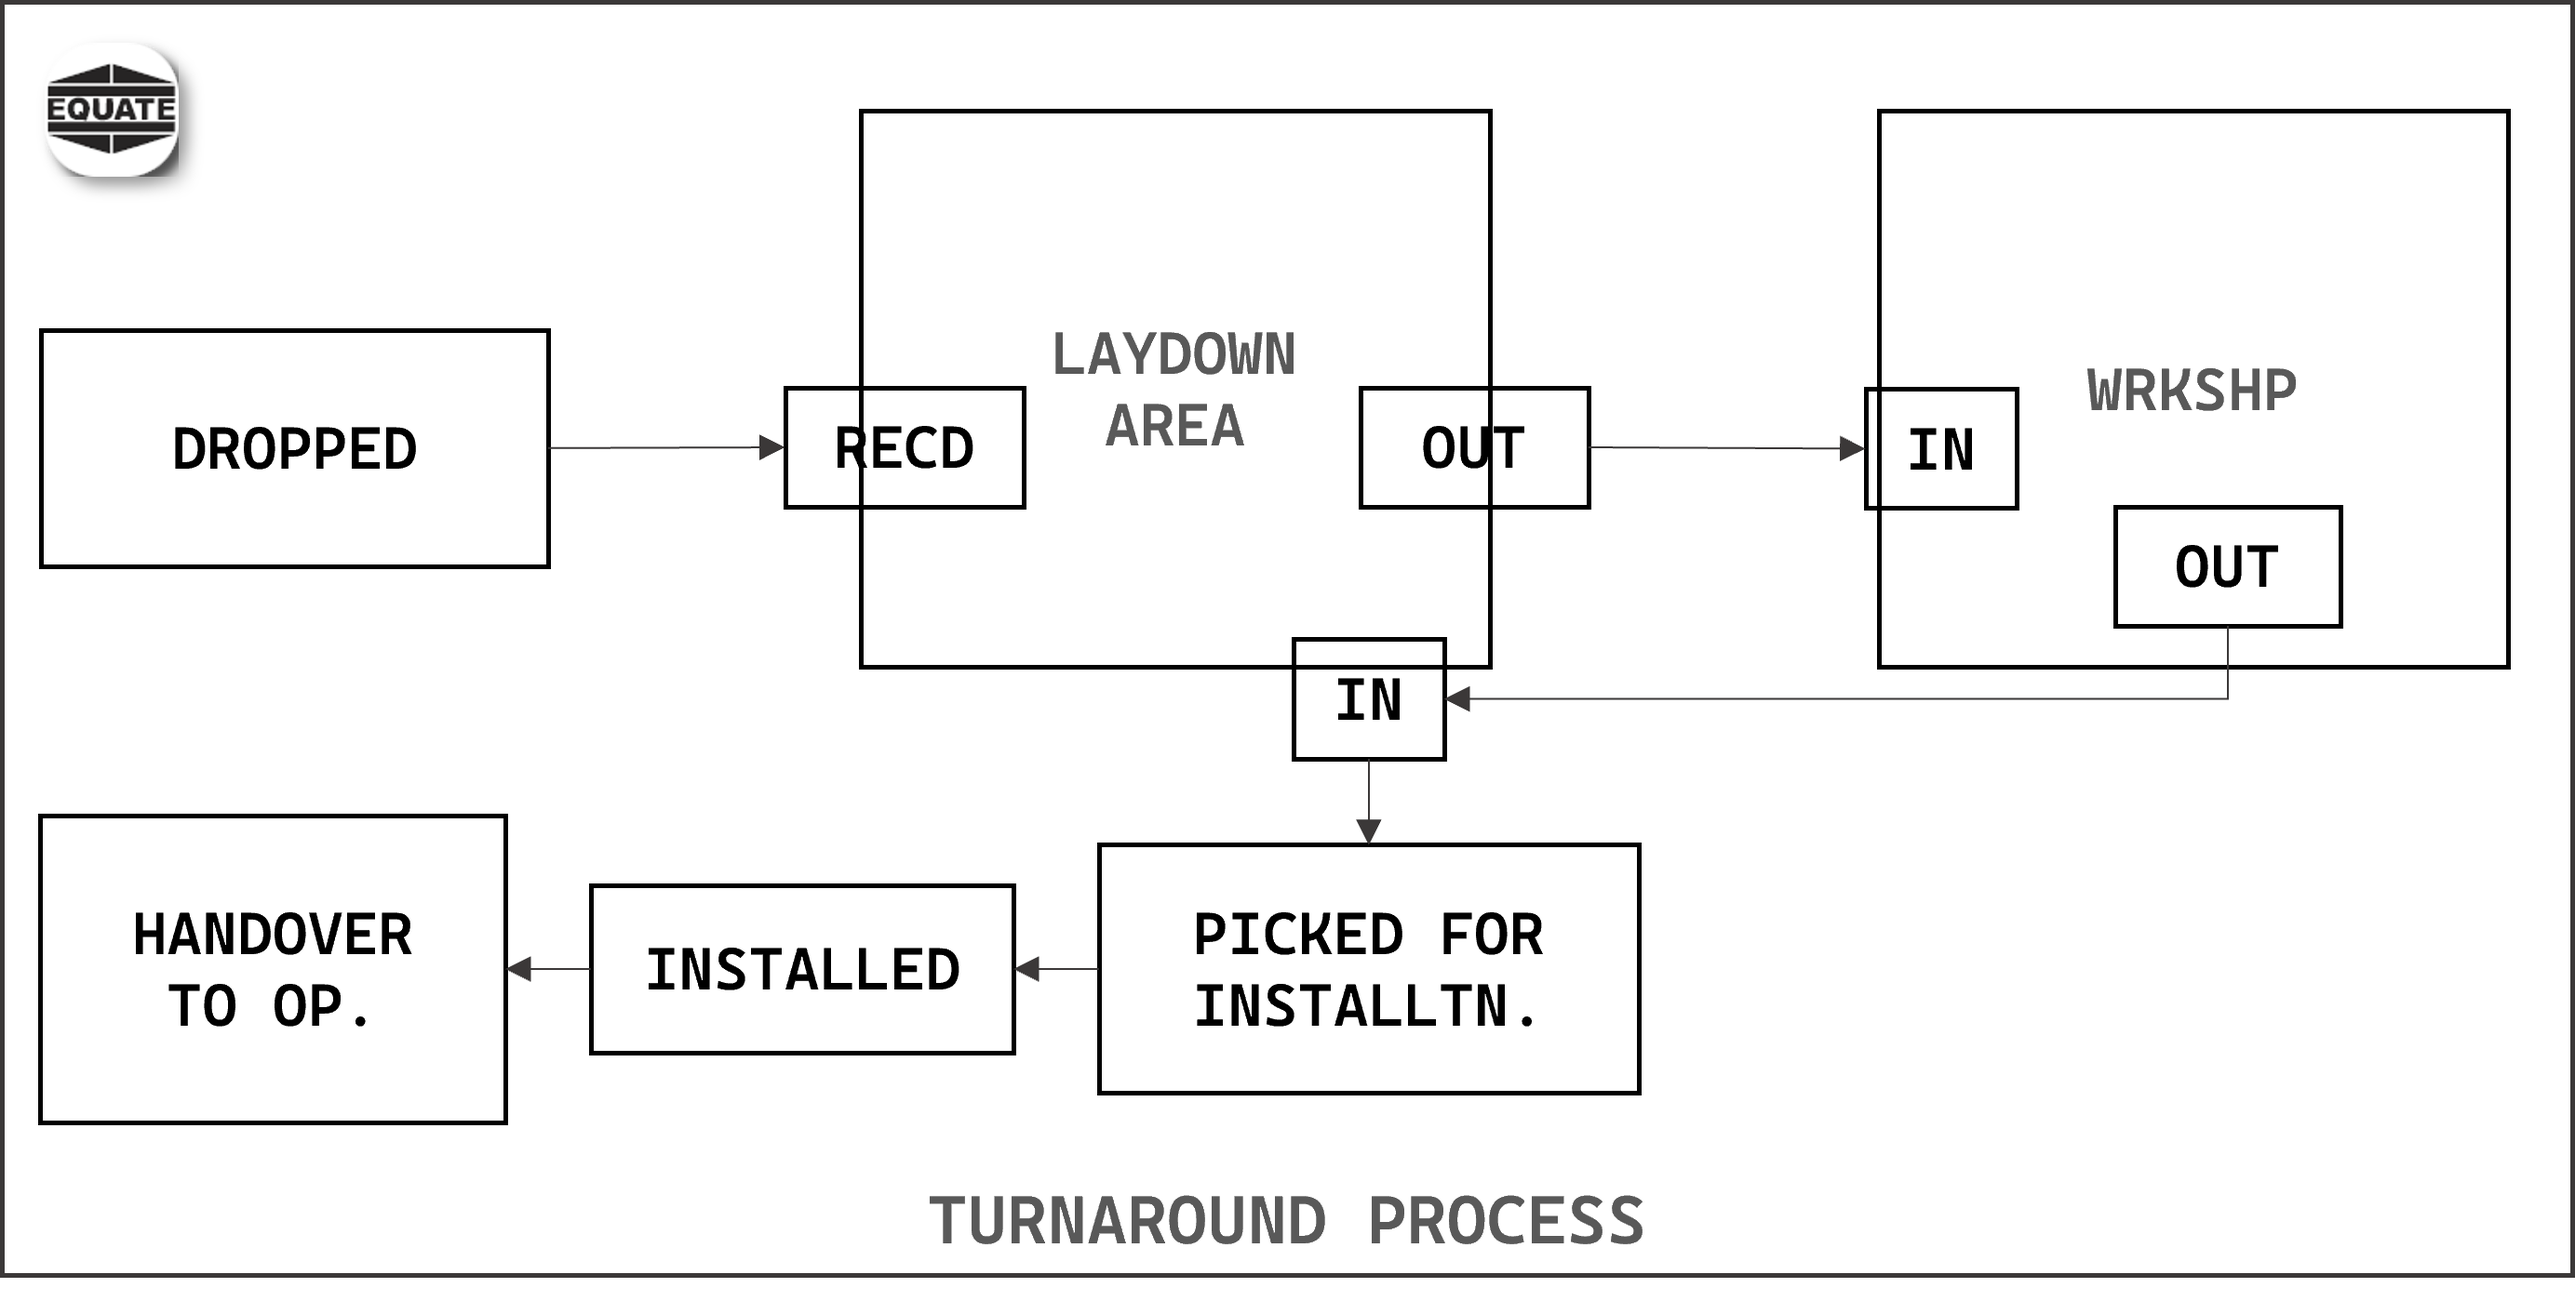
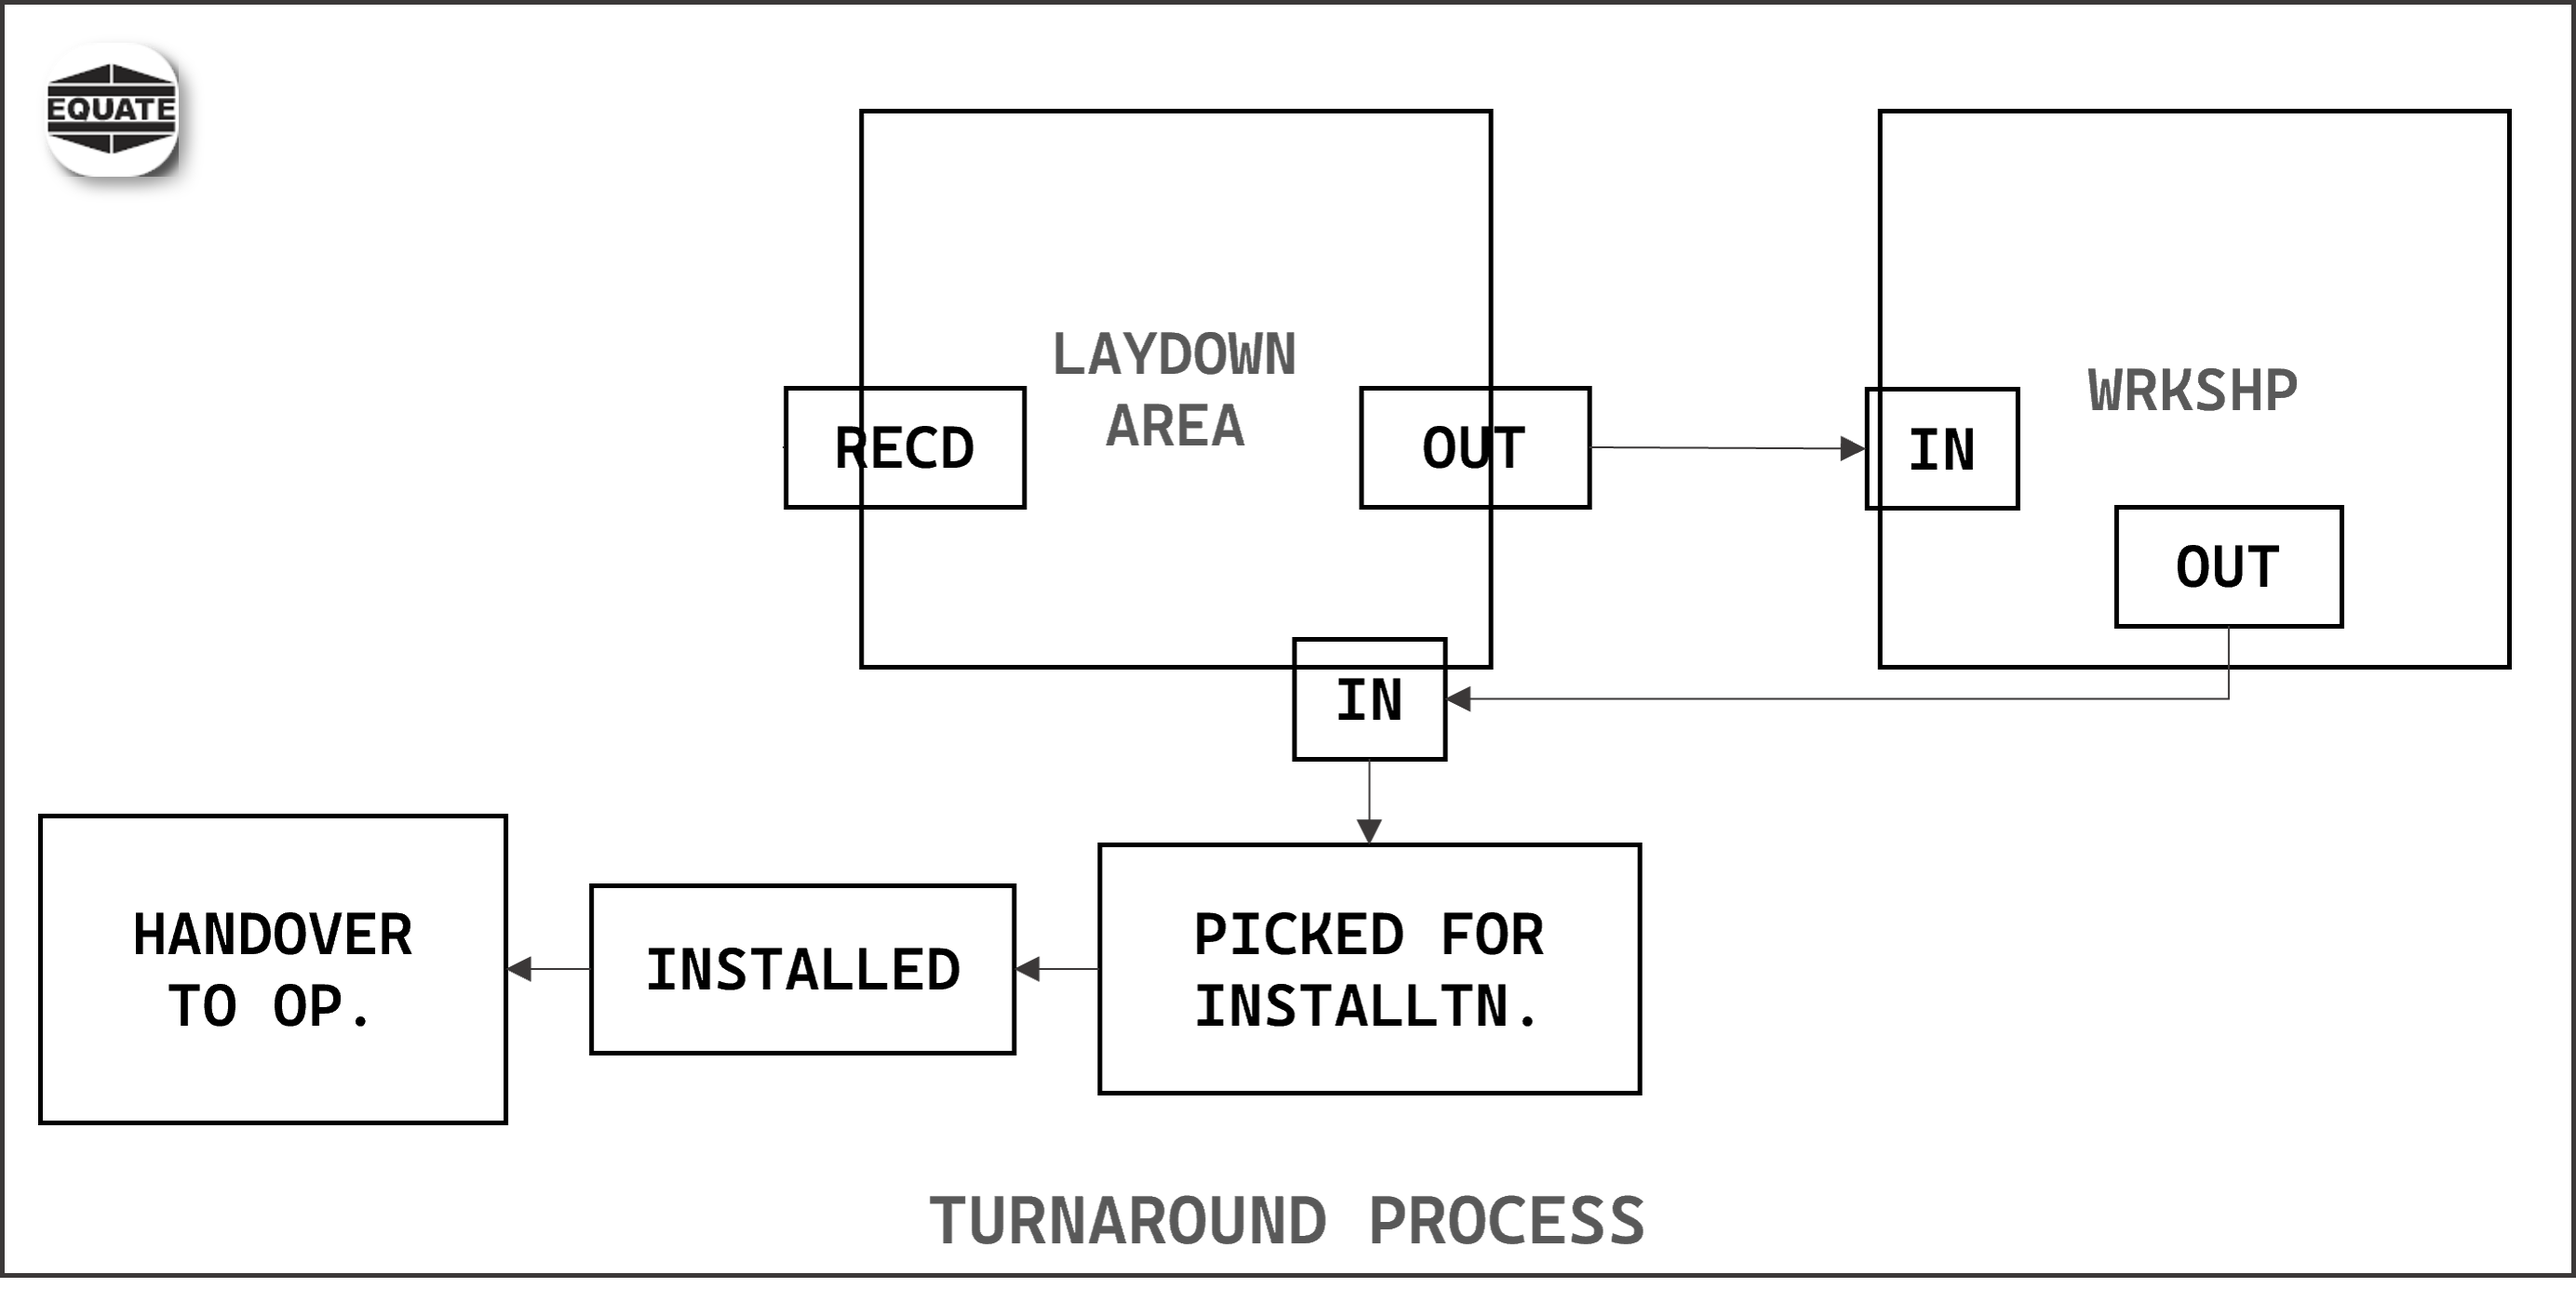
added updates

diff --git a/templates/valve_details.html b/templates/valve_details.html
@@ -1,0 +1,183 @@
+<!DOCTYPE html>
+<html lang="en">
+<head>
+    <meta charset="UTF-8">
+    <meta name="viewport" content="width=device-width, initial-scale=1.0">
+    <title>Valve Tracker</title>
+    <link rel="stylesheet" href="https://intellx.in/static/fonts/stylesheet.css">
+    <link rel="shortcut icon" href="https://www.equate.com/wp-content/uploads/2018/07/favicon.ico" type="image/x-icon">
+    <link rel="icon" href="https://www.equate.com/wp-content/uploads/2018/07/favicon.ico" type="image/x-icon">
+    <style>
+        * {font-family: 'Aeonik'!important;}
+        body {
+            font-family: 'Roboto', sans-serif;
+            margin: 0;
+            padding: 0;
+            background-color: #f4f4f9;
+            display: flex;
+            justify-content: center;
+            align-items: center;
+            min-height: 100vh;
+        }
+        .container {
+            width: 100%;
+            max-width: 600px;
+            margin: 20px;
+            padding: 20px;
+            background-color: white;
+            border-radius: 8px;
+            box-shadow: 0 4px 10px rgba(0, 0, 0, 0.1);
+        }
+        h1 {
+            text-align: center;
+        }
+        .valve-summary {
+            margin-bottom: 20px;
+        }
+        table {
+            width: 100%;
+            border-collapse: collapse;
+        }
+        table td {
+            padding: 10px;
+            border: 1px solid #ddd;
+            text-align: center;
+        }
+        table td:first-child {
+            font-weight: bold;
+        }
+        .stage-count {
+            cursor: pointer;
+            color: #007bff;
+            text-decoration: underline;
+        }
+        .modal {
+            display: none;
+            position: fixed;
+            top: 0;
+            left: 0;
+            width: 100%;
+            height: 100%;
+            background: rgba(0, 0, 0, 0.5);
+            justify-content: center;
+            align-items: center;
+        }
+        .modal-content {
+            background-color: #fff;
+            padding: 20px;
+            border-radius: 8px;
+            max-width: 500px;
+            width: 80%;
+        }
+        .close {
+            background: #ccc;
+            border: none;
+            color: white;
+            padding: 10px;
+            cursor: pointer;
+            border-radius: 4px;
+            margin-top: 10px;
+        }
+        .close:hover {
+            background-color: #aaa;
+        }
+        /* Button Styling - Material Design Inspired */
+        button {
+            background-color: #ffffff;
+            color: #000000;
+            padding: 10px 20px;
+            font-size: 16px;
+            border: none;
+            border-radius: 4px;
+            box-shadow: 0 2px 5px rgba(0, 0, 0, 0.2);
+            cursor: pointer;
+            transition: background-color 0.3s, box-shadow 0.3s;
+        }
+
+        button:hover {
+            background-color: #e0e0e0;
+            box-shadow: 0 4px 8px rgba(0, 0, 0, 0.3);
+        }
+
+        button:active {
+            background-color: #d6d6d6;
+            box-shadow: 0 2px 4px rgba(0, 0, 0, 0.2);
+        }
+    </style>
+</head>
+<body>
+
+    <div class="container">
+        <h1>Valve Tracker</h1>
+        
+        <div class="valve-summary">
+            <p><strong>Total Valves:</strong> {{ total_valves }}</p>
+        </div>
+        
+        <table>
+            <tr>
+                <td><strong>Stage Name</strong></td>
+                <td><strong>Valve Count</strong></td>
+            </tr>
+            {% for stage in stage_counts %}
+            <tr>
+                <td>{{ stage.stage }}</td>
+                <td><span class="stage-count" style="text-decoration: none; color: inherit;" onclick="showModal([
+                    {% for i in stage.details['items'] %}
+                        '{{i}}',
+                    {% endfor %}
+                ])">{{ stage.details.count }}</span></td>
+            </tr>
+            {% endfor %}
+        </table>
+        <br/>
+        <button onclick="history.back();">Back</button>
+        <br/>
+        <div style="text-align: center;">
+            <br/><hr/>
+            Turnaround Valve Tracker<br/>
+            Made with ♥ by Aaditya Rengarajan.
+            <hr/><br/>
+        </div>
+    </div>
+
+    <!-- Modal to show the detailed information for each stage -->
+    <div id="valveModal" class="modal">
+        <div class="modal-content">
+            <h2>Stage Details</h2>
+            <p id="modalContent" style="max-height: 30vh!important;overflow-y: scroll;">Loading...</p>
+            <button class="close" onclick="closeModal()">Close</button>
+        </div>
+    </div>
+
+
+    <script>
+        // Function to open the modal with stage details
+        function showModal(stageItems) {            
+            const modalContent = document.getElementById('modalContent');
+            modalContent.innerHTML = '';
+            const ul = document.createElement('ul');
+            stageItems.forEach(item => {
+              const li = document.createElement('li');
+              li.textContent = item;
+              ul.appendChild(li);
+            });
+            modalContent.appendChild(ul);
+            document.getElementById('valveModal').style.display = 'flex';
+        }
+
+        // Function to close the modal
+        function closeModal() {
+            document.getElementById('valveModal').style.display = 'none';
+        }
+        
+        // Close modal when clicked outside the modal content
+        window.onclick = function(event) {
+            if (event.target === document.getElementById('valveModal')) {
+                closeModal();
+            }
+        }
+    </script>
+
+</body>
+</html>

diff --git a/templates/status_page.html b/templates/status_page.html
@@ -144,7 +144,6 @@
             font-size: 0.5em;
         }
 
-        .dropped { background-color: green; }
         .recd { background-color: green; }
         .out-1 { background-color: green; }
         .out-2 { background-color: green; }
@@ -155,13 +154,6 @@
         .handover { background-color: green; }
 
         /* Example Responsive Positioning */
-        .stage-indicator.dropped {
-            top: 25%;
-            left: 1.5%;
-            width: 20%;
-            height: 10%;
-        }
-
         .stage-indicator.recd {
             top: 25%;
             left: 30%;
@@ -258,11 +250,6 @@
 
             <!-- Stages -->
             <div class="stages">
-                {% if 'Dropped' in status_data %}
-                    <div class="stage-indicator dropped" data-tooltip="{{status_data['Dropped']}}" 
-                         onmousedown="startPress(event, 'Dropped')" onmouseup="endPress()" oncontextmenu="delItem('Dropped')">DROPPED</div>
-                {% endif %}
-
                 {% if 'Received in Laydown Area' in status_data %}
                     <div class="stage-indicator recd" data-tooltip="{{status_data['Received in Laydown Area']}}" 
                          onmousedown="startPress(event, 'Received in Laydown Area')" onmouseup="endPress()" oncontextmenu="delItem('Received in Laydown Area')">RECD</div>
@@ -364,15 +351,14 @@
 
         <button id="editStatusButton">Edit Status</button>
 
+        <button id="downloadExcelButton"><a href="/export" style="color: inherit; text-decoration: none;">Download Excel</a></button>
+        <button id="valveSummaryPage"><a href="/valves-summary" style="color: inherit; text-decoration: none;">Valve Summary</a></button>
+
         <div id="statusModal">
             <div class="modal-content">
                 <form method="post" id="statusForm" onsubmit="return validatePin()">
                     <label for="new_status">Select New Status:</label>
                     <select name="new_status" id="new_status">
-                        {% if 'Dropped' not in status_data %}
-                        <option value="Dropped">Dropped</option>
-                        {% endif %}
-                        
                         {% if 'Received in Laydown Area' not in status_data %}
                         <option value="Received in Laydown Area">Received in Laydown Area</option>
                         {% endif %}

diff --git a/app.py b/app.py
@@ -2,6 +2,7 @@ from fastapi import FastAPI, Request, Form, HTTPException
 from fastapi.responses import HTMLResponse, StreamingResponse, JSONResponse
 from fastapi.templating import Jinja2Templates
 from fastapi.staticfiles import StaticFiles
+from typing import List, Dict
 from datetime import datetime, timezone, timedelta
 from collections import OrderedDict
 from bson.objectid import ObjectId
@@ -133,6 +134,9 @@ async def export_data():
     # Prepare DataFrame
     df = pd.DataFrame(data)
 
+    # Filter out rows where "Unit" is "DMO"
+    df = df[df["Unit"] != "DMO"]
+
     # Convert DataFrame to XLSX in Memory
     output = io.BytesIO()
     with pd.ExcelWriter(output, engine="xlsxwriter") as writer:
@@ -145,6 +149,52 @@ async def export_data():
     }
 
     return StreamingResponse(output, headers=headers)
+
+# Define a route to get the required data
+@app.get("/valves-summary", response_model=dict)
+async def get_valves_summary(request: Request):
+    """
+    Fetch the total number of valves and classify items by the latest datetime-based key.
+    """
+    try:
+        # Fetch all documents from the collection
+        data = list(collection.find())
+
+        # Initialize variables for summary
+        stage_counts = {}
+        total_valves = len(data)
+
+        # Process each document
+        for item in data:
+            latest_stage = None
+            latest_datetime = None
+
+            # Iterate over key-value pairs to identify datetime fields
+            for key, value in item.items():
+                try:
+                    if isinstance(value, str) and (parsed_date := datetime.strptime(value, "%Y-%m-%d %H:%M:%S")):  # Check if the value is a datetime
+                        if not latest_datetime or value > latest_datetime:
+                            latest_datetime = value
+                            latest_stage = key
+                except:
+                    continue
+
+            # Classify by the latest stage
+            if not stage_counts.get(latest_stage):
+                stage_counts[latest_stage] = {"count": 0, "items": []}
+            if latest_stage:
+                stage_counts[latest_stage]["count"] = stage_counts.get(latest_stage, {"count": 0}).get('count') + 1
+                stage_counts[latest_stage]["items"].append(item.get("id"))
+            else:
+                stage_counts["Pending"]["count"] = stage_counts.get("Pending",  {"count": 0}).get("count") + 1
+                stage_counts["Pending"]["items"].append(item.get("id"))
+
+        return templates.TemplateResponse("valve_details.html", {"request": request, "total_valves": total_valves,
+            "stage_counts": [{"stage": stage, "details": count} for stage, count in stage_counts.items()]})
+
+    except Exception as e:
+        raise HTTPException(status_code=500, detail=str(e))
+
 if __name__ == "__main__":
     import uvicorn
     uvicorn.run(app, host="0.0.0.0", port=9000)
